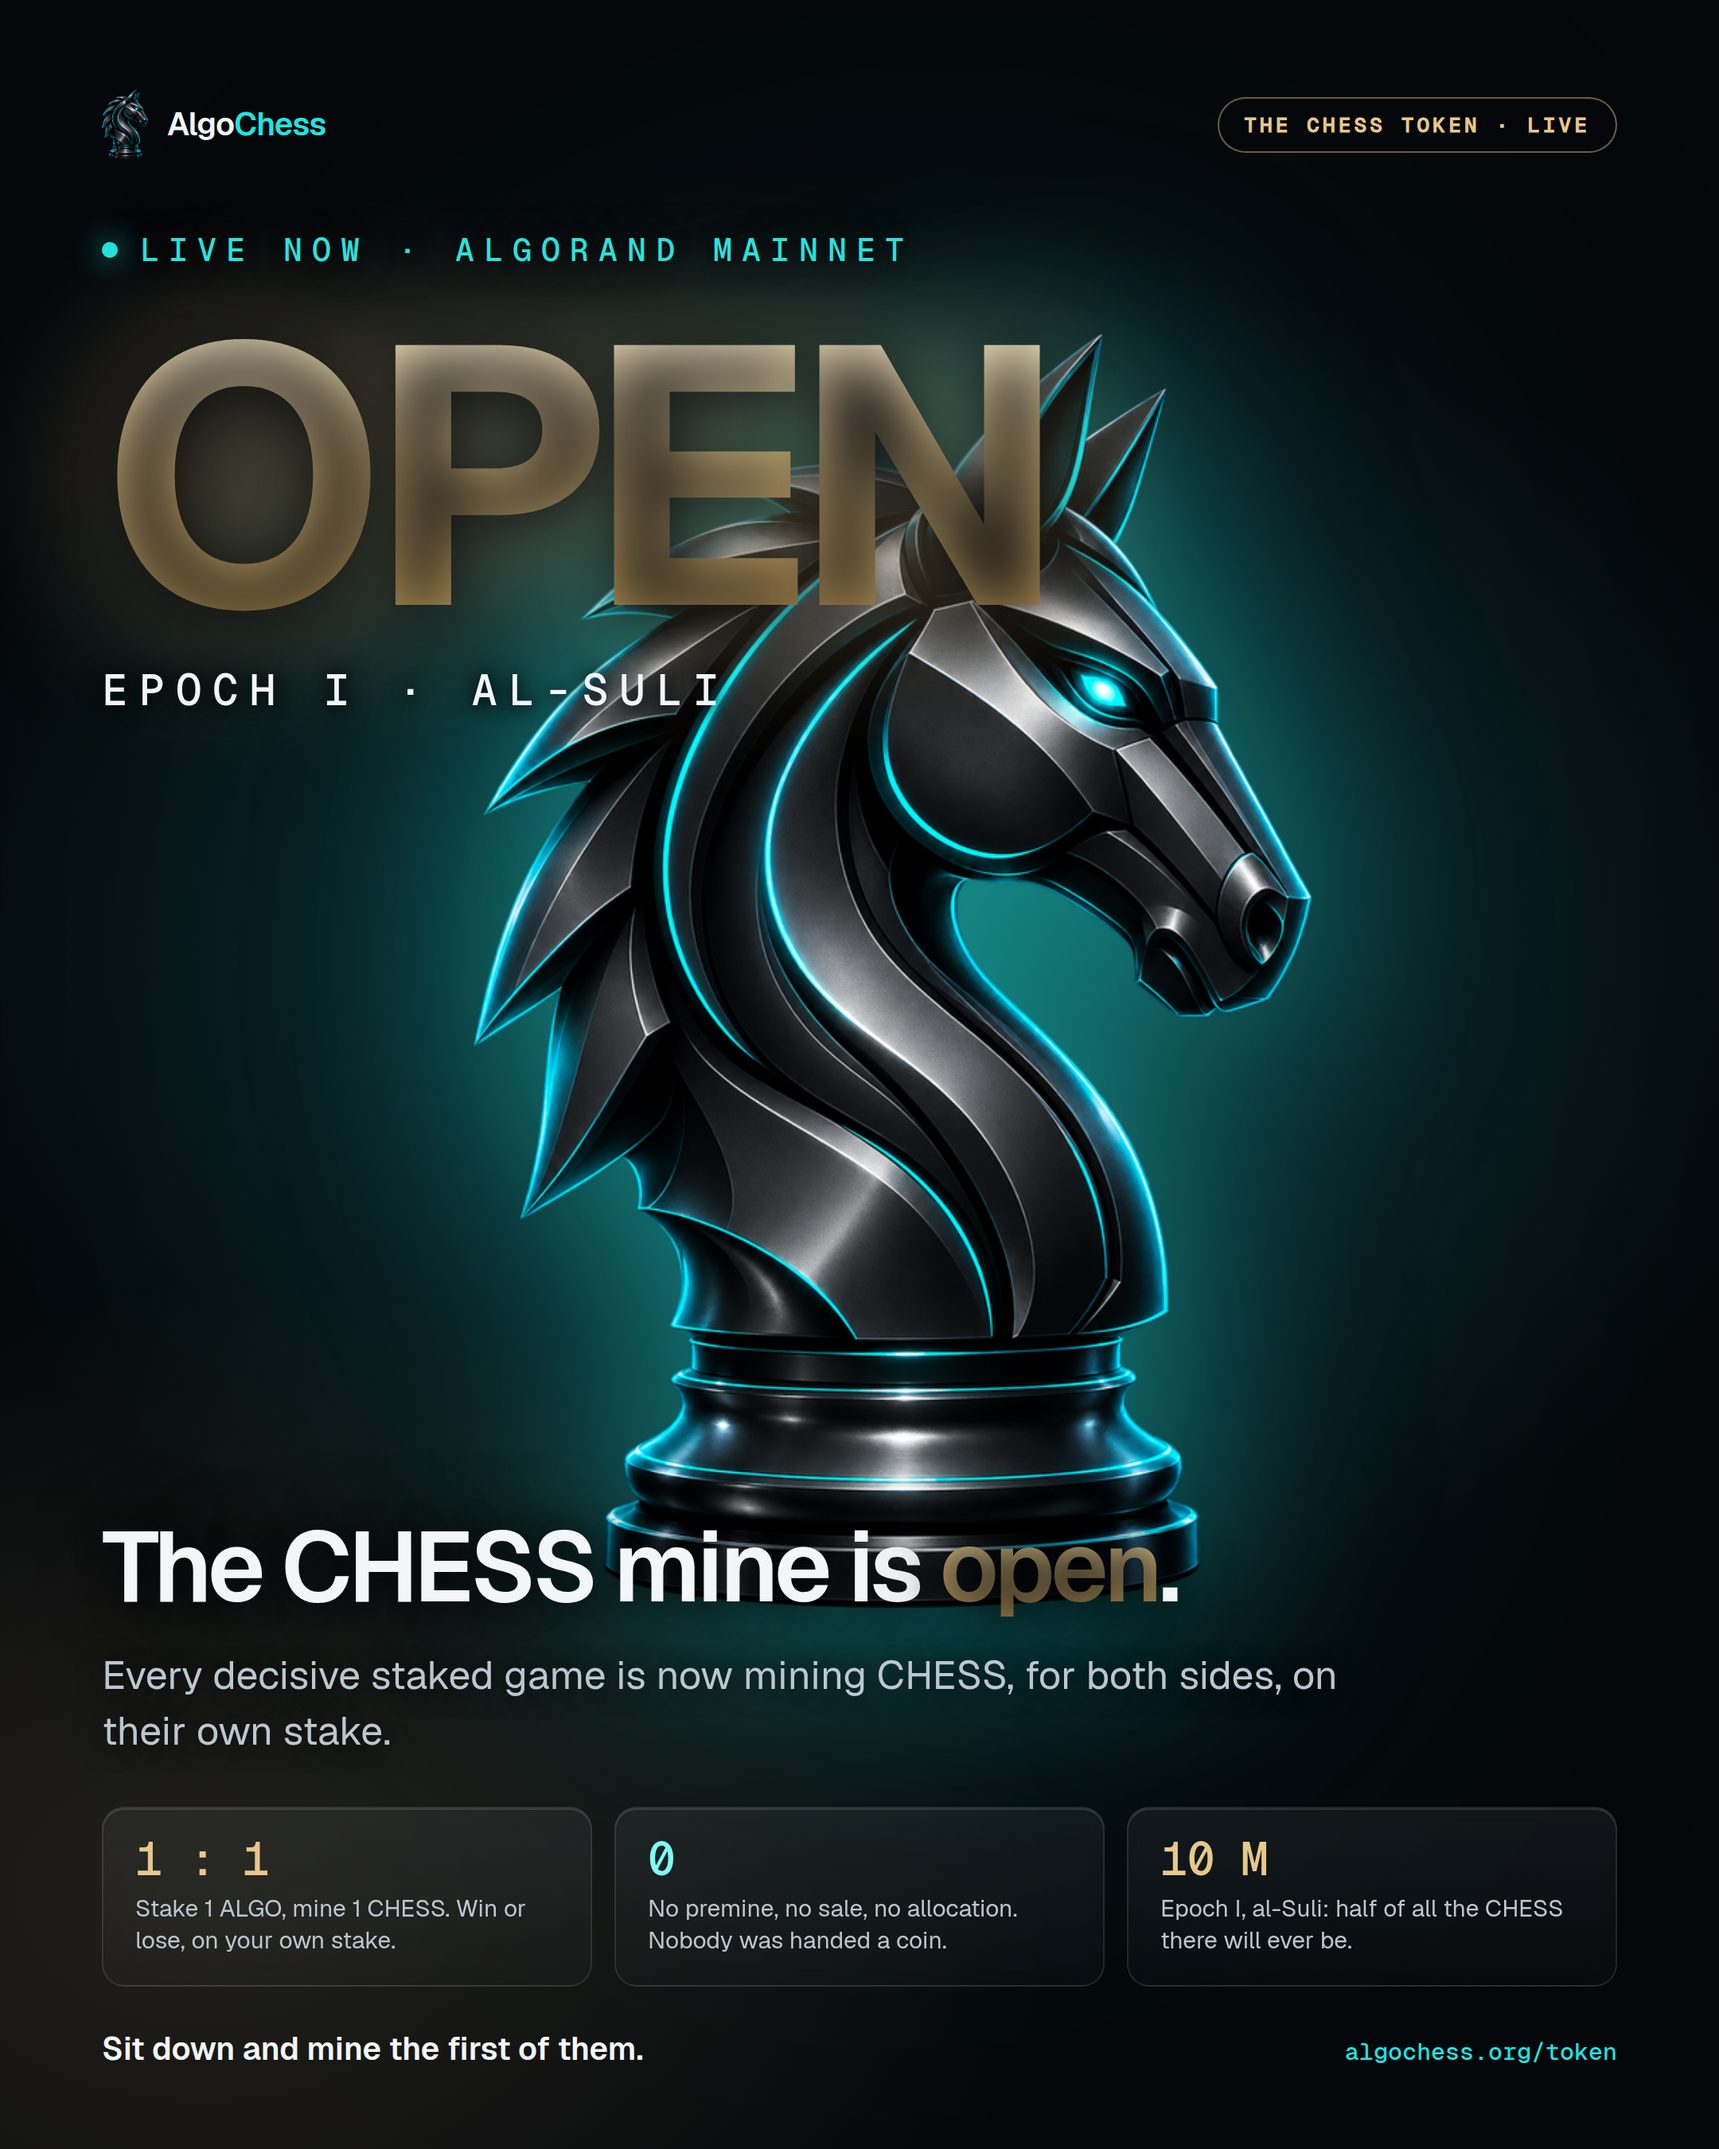
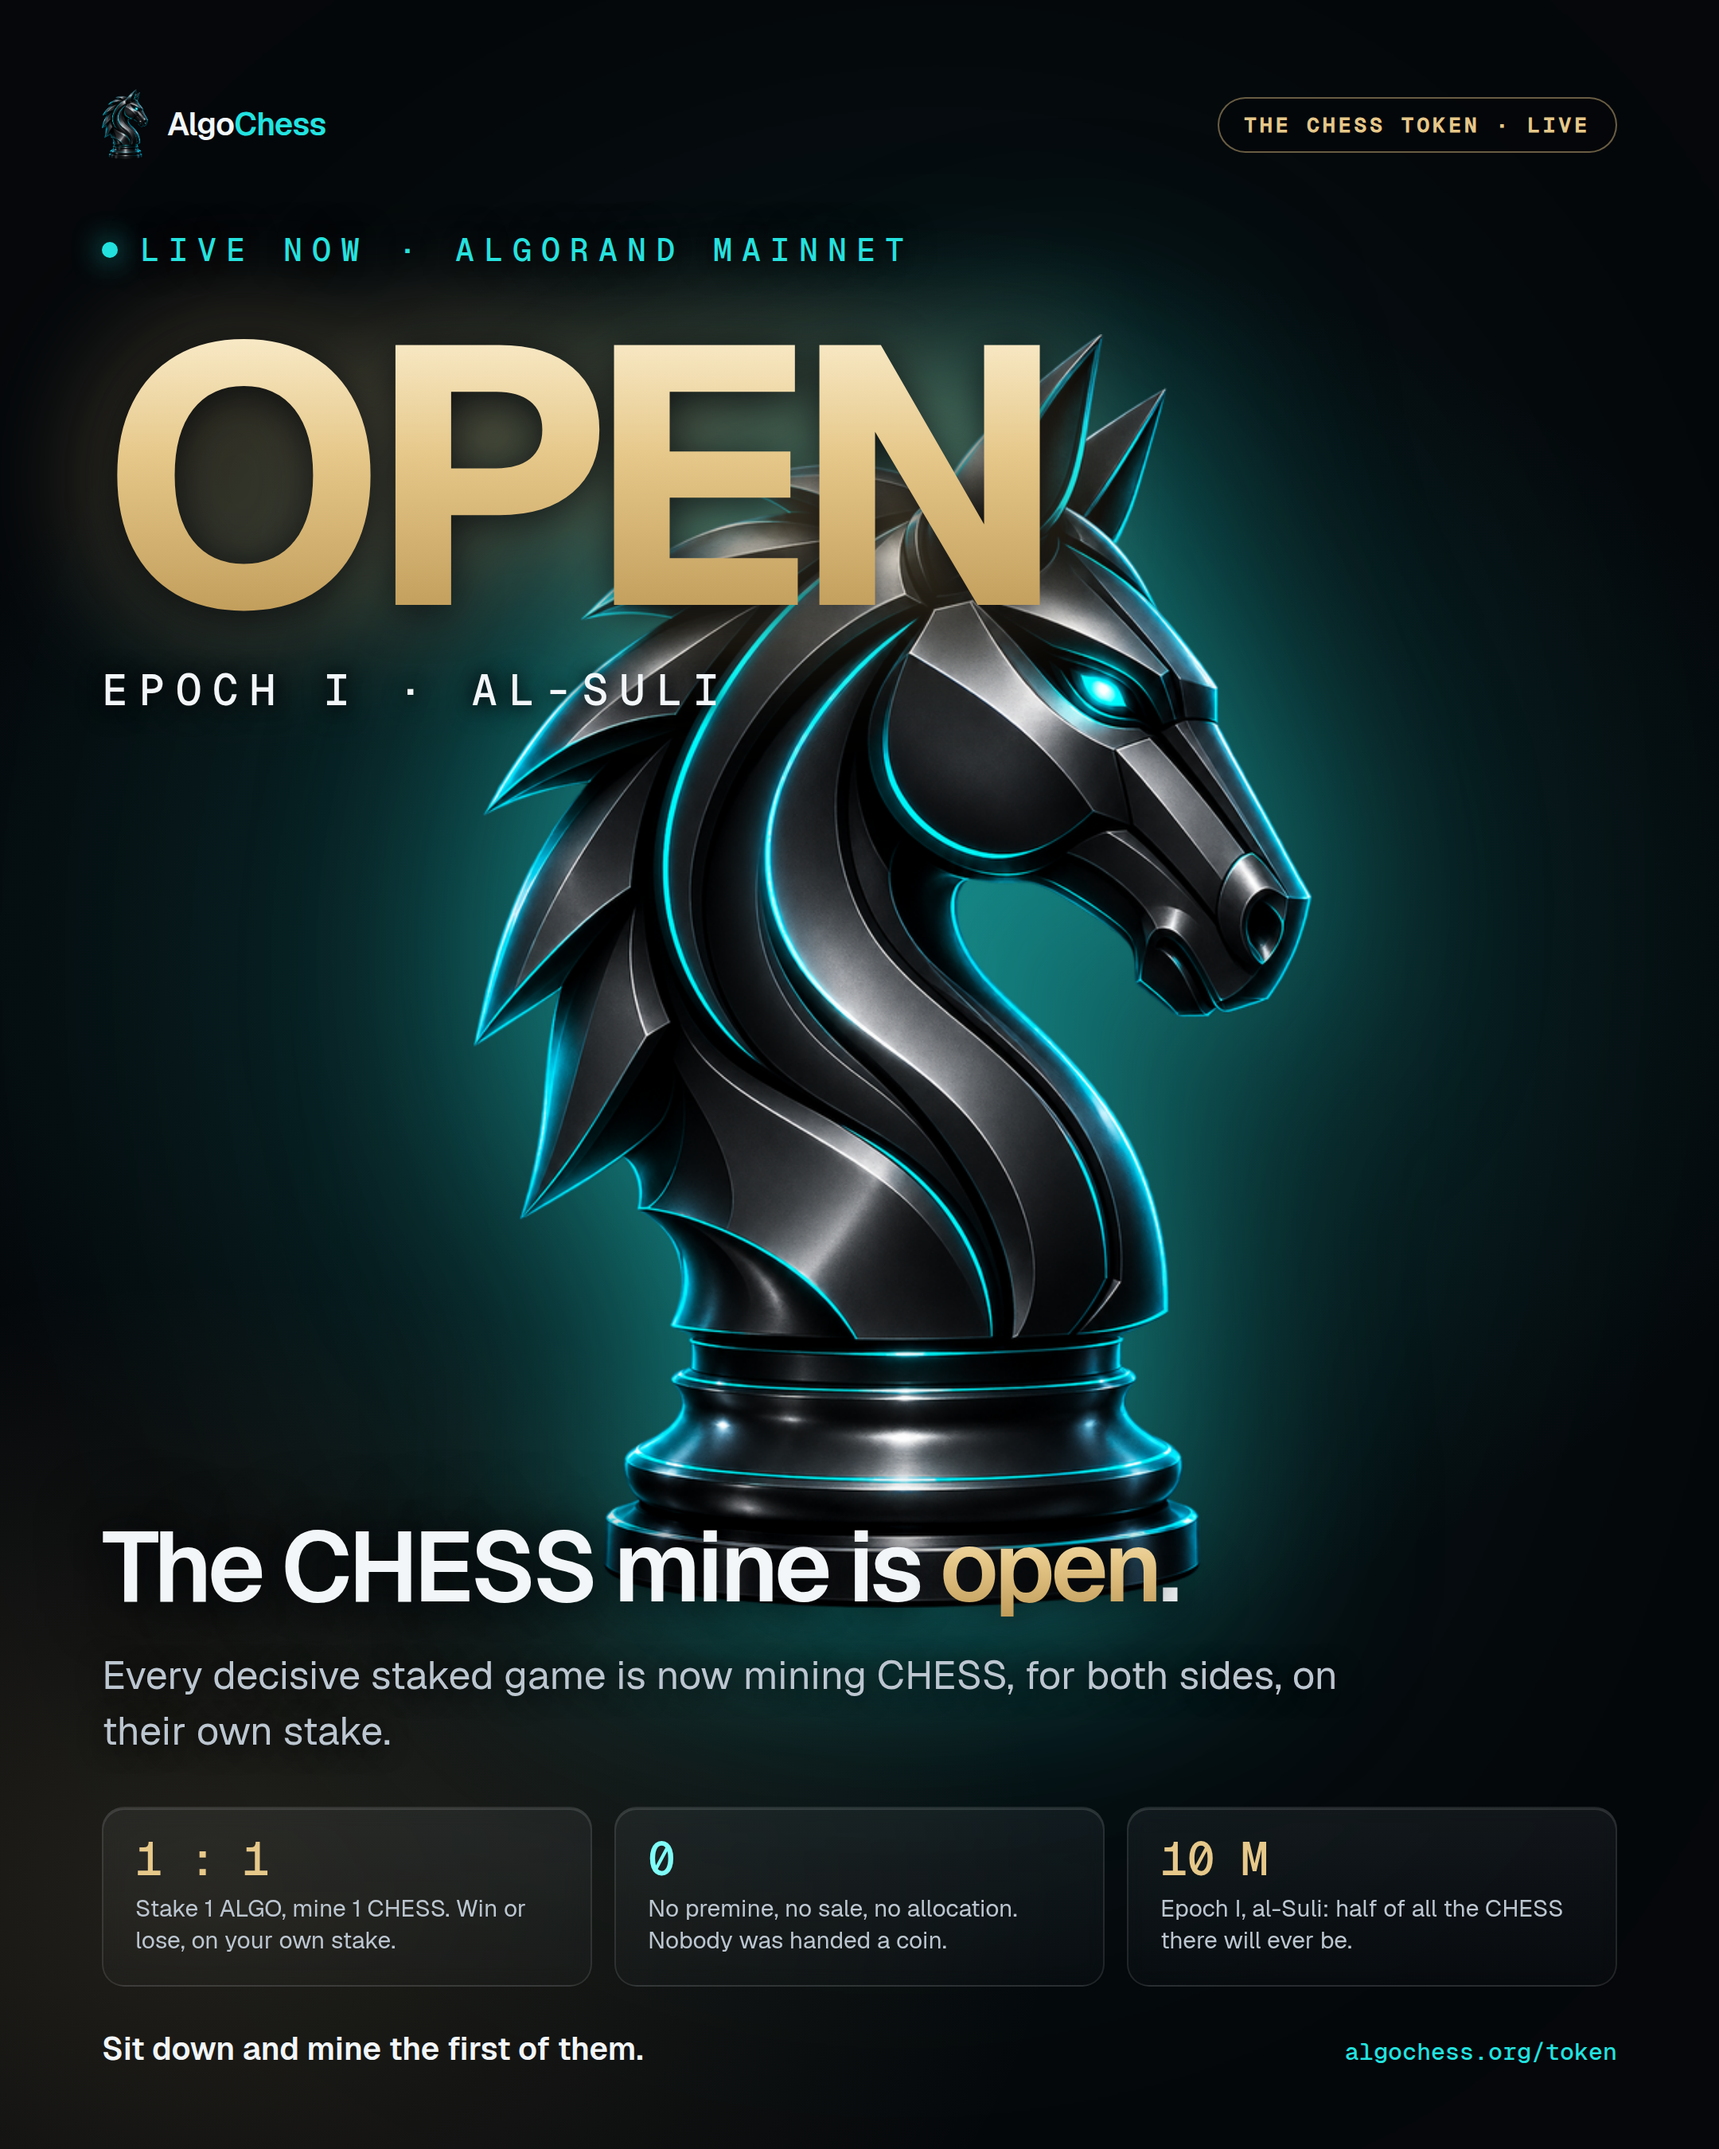
Cards: crisp gold, no shadow through gradient text
The launch cards (17:00 / OPEN / today. / open.) and the Proof of Play
thesis (play.) carried a text-shadow on gradient-filled transparent
glyphs, which painted the shadow through the letters and muddied the
gold. Removed; replaced by a glyph-shaped drop-shadow filter. Rule
noted in the countdown README.

Claude-Session: https://claude.ai/code/session_011ELKA8WvK7zimmKZuoaQVr

Changed region(s): [[0.062, 0.1556, 0.6204, 0.3111], [0.5273, 0.7156, 0.6824, 0.7467]]

diff --git a/infographics/launch/make/build.py b/infographics/launch/make/build.py
@@ -73,13 +73,13 @@ html, body {{ margin: 0; background: #05070a; }}
 
 .hero {{ position: relative; z-index: 2; margin-top: 14px; font-size: {230 if LIVE else 210}px; line-height: 1; font-weight: 700; letter-spacing: -0.055em; font-variant-numeric: tabular-nums;
   background: linear-gradient(180deg, #fff6dd 0%, #e6c88a 44%, #b8924e 100%); -webkit-background-clip: text; background-clip: text; color: transparent;
-  filter: drop-shadow(0 0 46px rgba(230,200,138,0.45)); text-shadow: 0 6px 40px rgba(5,7,10,0.9); }}
+  filter: drop-shadow(0 4px 14px rgba(5,7,10,0.85)) drop-shadow(0 0 40px rgba(230,200,138,0.42)); }}
 .herosub {{ position: relative; z-index: 2; text-shadow: 0 0 10px rgba(5,7,10,1), 0 2px 16px rgba(5,7,10,0.95); margin-top: 2px; font-family: GM, monospace; font-size: 27px; letter-spacing: 0.26em; text-transform: uppercase; color: #f2f6f8; }}
 
 .spacer {{ flex: 1 1 auto; }}
 
 .head {{ position: relative; z-index: 2; text-shadow: 0 2px 20px rgba(5,7,10,0.95), 0 0 46px rgba(5,7,10,0.85); font-size: 62px; line-height: 1.04; letter-spacing: -0.04em; font-weight: 600; color: #f2f6f8; max-width: 900px; }}
-.head .gold {{ background: linear-gradient(180deg, #fff3cf 0%, #e6c88a 45%, #b8924e 100%); -webkit-background-clip: text; background-clip: text; color: transparent; }}
+.head .gold {{ text-shadow: none; background: linear-gradient(180deg, #fff3cf 0%, #e6c88a 45%, #b8924e 100%); -webkit-background-clip: text; background-clip: text; color: transparent; filter: drop-shadow(0 2px 10px rgba(5,7,10,0.85)); }}
 .line {{ position: relative; z-index: 2; text-shadow: 0 2px 16px rgba(5,7,10,0.95); margin-top: 18px; font-size: 25px; line-height: 1.4; color: #bcc6d0; max-width: 820px; }}
 
 .facts {{ position: relative; z-index: 2; margin-top: 30px; display: flex; gap: 14px; }}

diff --git a/infographics/proof-of-play/make/build.py b/infographics/proof-of-play/make/build.py
@@ -72,7 +72,7 @@ html, body {{ margin: 0; background: #05070a; }}
 .thesis {{ position: relative; text-shadow: 0 2px 18px rgba(5,7,10,0.9); margin-top: 26px; max-width: 580px; font-size: 49px; line-height: 1.16; letter-spacing: -0.035em; font-weight: 600; white-space: nowrap; }}
 .thesis .dim {{ color: #56616e; display: block; }}
 .thesis .now {{ color: #f2f6f8; display: block; margin-top: 8px; }}
-.thesis .gold {{ background: linear-gradient(180deg, #fff3cf 0%, #e6c88a 45%, #b8924e 100%); -webkit-background-clip: text; background-clip: text; color: transparent; filter: drop-shadow(0 0 26px rgba(230,200,138,0.4)); }}
+.thesis .gold {{ text-shadow: none; background: linear-gradient(180deg, #fff3cf 0%, #e6c88a 45%, #b8924e 100%); -webkit-background-clip: text; background-clip: text; color: transparent; filter: drop-shadow(0 2px 10px rgba(5,7,10,0.85)) drop-shadow(0 0 22px rgba(230,200,138,0.35)); }}
 .under {{ position: relative; text-shadow: 0 2px 14px rgba(5,7,10,0.95); margin-top: 20px; max-width: 470px; font-size: 22px; line-height: 1.42; color: #bcc6d0; }}
 
 /* The scale: one dot per million, 55 x 11 = 605, no partial row. */

diff --git a/infographics/countdown/README.md b/infographics/countdown/README.md
@@ -1,0 +1,4 @@
+
+## Gold text rule
+
+Gradient-filled text (`background-clip: text; color: transparent`) must never carry a `text-shadow`: the shadow paints through the transparent glyphs and muddies the gold. Use a glyph-shaped `filter: drop-shadow(...)` on the element instead.
